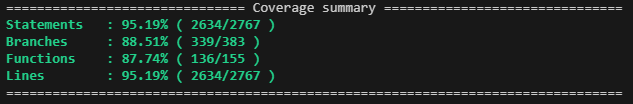
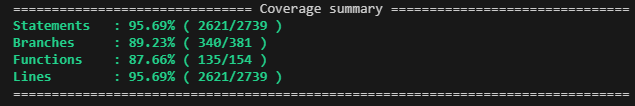
Updated tests

diff --git a/src/components/shared/SearchBar/SearchBar.test.tsx b/src/components/shared/SearchBar/SearchBar.test.tsx
@@ -1,0 +1,89 @@
+import { render, screen, fireEvent, waitFor } from "@testing-library/react";
+import { vi, describe, it, beforeEach, expect } from "vitest";
+import SearchBar from "./SearchBar";
+import { BrowserRouter } from "react-router-dom";
+
+// Mocks
+const mockNavigate = vi.fn();
+const mockSetSearchParams = vi.fn();
+let mockSearchParams = new URLSearchParams();
+
+vi.mock("react-router-dom", async () => {
+  const actual = await vi.importActual("react-router-dom");
+  return {
+    ...actual,
+    useNavigate: () => mockNavigate,
+    useLocation: () => ({
+      pathname: "/listing",
+    }),
+    useSearchParams: () => [mockSearchParams, mockSetSearchParams],
+  };
+});
+
+describe("SearchBar", () => {
+  beforeEach(() => {
+    vi.clearAllMocks();
+    mockSearchParams = new URLSearchParams();
+  });
+
+  const setup = () =>
+    render(
+      <BrowserRouter>
+        <SearchBar />
+      </BrowserRouter>
+    );
+
+  it("renders input with default value from URL", () => {
+    mockSearchParams.set("search", "shoes");
+
+    setup();
+
+    const input = screen.getByPlaceholderText("Search products...") as HTMLInputElement;
+    expect(input.value).toBe("shoes");
+  });
+
+  it("updates input value on user typing", () => {
+    setup();
+
+    const input = screen.getByPlaceholderText("Search products...") as HTMLInputElement;
+
+    fireEvent.change(input, { target: { value: "laptop" } });
+    expect(input.value).toBe("laptop");
+  });
+
+  it("sets search param after debounce when typing", async () => {
+    setup();
+
+    const input = screen.getByPlaceholderText("Search products...") as HTMLInputElement;
+
+    fireEvent.change(input, { target: { value: "camera" } });
+
+    await waitFor(() => {
+      expect(mockSetSearchParams).toHaveBeenCalledWith(new URLSearchParams({ search: "camera" }));
+    }, { timeout: 1000 });
+  });
+
+  it("removes search param when input is cleared", async () => {
+    mockSearchParams.set("search", "item");
+
+    setup();
+
+    const input = screen.getByPlaceholderText("Search products...") as HTMLInputElement;
+    fireEvent.change(input, { target: { value: "" } });
+
+    await waitFor(() => {
+      expect(mockSetSearchParams).toHaveBeenCalledWith(new URLSearchParams());
+    }, { timeout: 1000 });
+  });
+
+  it("navigates to listing with search param on submit", () => {
+    setup();
+
+    const input = screen.getByPlaceholderText("Search products...") as HTMLInputElement;
+    fireEvent.change(input, { target: { value: "keyboard" } });
+
+    fireEvent.submit(input.closest("form")!);
+
+    expect(mockNavigate).toHaveBeenCalledWith("/listing?search=keyboard");
+  });
+});

diff --git a/vite.config.ts b/vite.config.ts
@@ -35,6 +35,8 @@ export default defineConfig({
         "**/vite.config.ts",
         "**/vite-env.d.ts",
         "**/main.tsx",
+        "**/main.ts",
+        "**/preview.ts",
         "**/services/**",
         "**/types.ts",
         "**/Skeleton/**",
@@ -45,6 +47,9 @@ export default defineConfig({
         "**/components/cart/Shipping/**",
         "**/components/ProductDetail/ProductDetailSkeleton.tsx",
         "**/hooks/**",
+        "**/*.stories.*",
+        ".storybook/**",
+        "**/components/shared/BaseInput/**",
       ],
     },
   },

diff --git a/README.md b/README.md
@@ -48,9 +48,9 @@ To run the project locally:
 
 | Metric      | Coverage |
 |-------------|----------|
-| Statements  | 95.19%   |
-| Branches    | 88.51%   |
-| Functions   | 87.74%   |
-| Lines       | 95.19%   |
+| Statements  | 95.59%   |
+| Branches    | 88.23%   |
+| Functions   | 87.66%   |
+| Lines       | 95.69%   |
 
 ![alt text](image.png)
